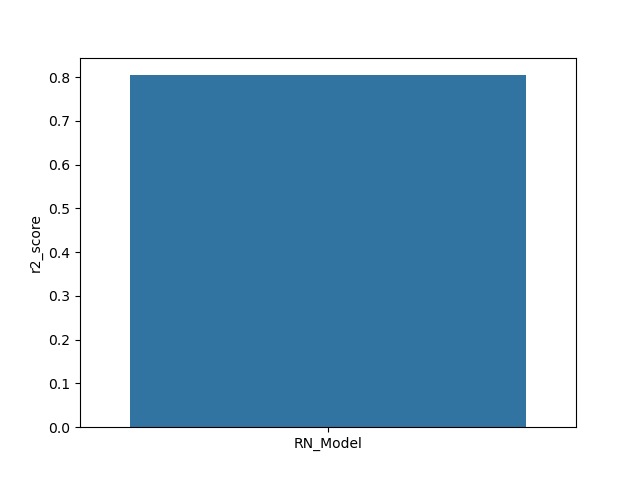
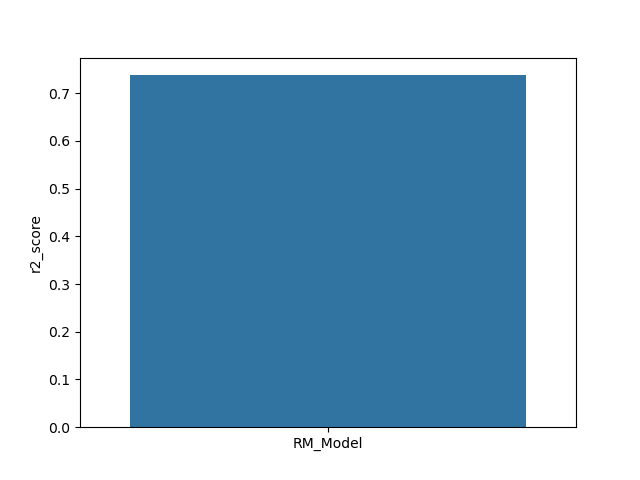
RN is with us

diff --git a/main.py b/main.py
@@ -11,23 +11,9 @@ if __name__ == '__main__':
     ml_comparer_obj = MLComparer()
     ml_comparer_obj.initialize()
 
-<<<<<<< HEAD
-    trained_rn_model = ml_comparer_obj.compare_training("RN_Model", RNModel(), 10)
-    ml_comparer_obj.compare_benchmark("RN_Model", trained_rn_model)
-
-    # trained_adaboost_model = ml_comparer_obj.compare_training("ADABoost_Model", ADABoostModel(), 10)
-    # ml_comparer_obj.compare_benchmark("ADABoost_Model", trained_adaboost_model)
-
-    # trained_svm_model = ml_comparer_obj.compare_training("SVM_Model", SVMModel(), 10)
-    # ml_comparer_obj.compare_benchmark("SVM_Model", trained_svm_model)
-
-    # trained_random_forest_model = ml_comparer_obj.compare_training("RandomForest_Model", RandomForestModel(), 10)
-    # ml_comparer_obj.compare_benchmark("RandomForest_Model", trained_random_forest_model)
+    trained_rn_model = ml_comparer_obj.compare_training("RM_Model", RNModel(), 70)
+    ml_comparer_obj.compare_benchmark("RM_Model", trained_rn_model)
     
-=======
-    # trained_rn_model = ml_comparer_obj.compare_training("RM_Model", RNModel(), 10)
-    # ml_comparer_obj.compare_benchmark("RM_Model", trained_rn_model)
-    #
     # trained_adaboost_model = ml_comparer_obj.compare_training("ADABoost_Model", ADABoostModel(), 10)
     # ml_comparer_obj.compare_benchmark("ADABoost_Model", trained_adaboost_model)
     #
@@ -39,17 +25,16 @@ if __name__ == '__main__':
 
     # Compare training of KNN models with different k values
 
-    trained_knn_uniform_model = ml_comparer_obj.compare_training("KNN_Uniform_Model", KNNModel(weights="uniform"),  15,
-                                                                 KNNManager.train_model_get_specs)
+    # trained_knn_uniform_model = ml_comparer_obj.compare_training("KNN_Uniform_Model", KNNModel(weights="uniform"),  15,
+    #                                                              KNNManager.train_model_get_specs)
 
-    ml_comparer_obj.compare_benchmark("KNN_Uniform_Model", trained_knn_uniform_model)
+    # ml_comparer_obj.compare_benchmark("KNN_Uniform_Model", trained_knn_uniform_model)
 
-    trained_knn_distance_model = ml_comparer_obj.compare_training("KNN_Distance_Model", KNNModel(weights="distance"),  15,
-                                                                  KNNManager.train_model_get_specs)
+    # trained_knn_distance_model = ml_comparer_obj.compare_training("KNN_Distance_Model", KNNModel(weights="distance"),  15,
+    #                                                               KNNManager.train_model_get_specs)
 
-    ml_comparer_obj.compare_benchmark("KNN_Distance_Model", trained_knn_distance_model)
+    # ml_comparer_obj.compare_benchmark("KNN_Distance_Model", trained_knn_distance_model)
 
->>>>>>> d68aaf741adf1a251ef2c46e7c48176dc78eee39
     ml_comparer_obj.dump_comparison()
 
 

diff --git a/Utils/data_container.py b/Utils/data_container.py
@@ -20,8 +20,8 @@ class DataContainer:
         validation_set_upper_edge = int(0.9 * feature_set.shape[0])
 
         self.training_set = shuffled_feature_set[:training_set_upper_edge, :], shuffled_target_set[:training_set_upper_edge]
-        self.test_set= shuffled_feature_set[training_set_upper_edge:validation_set_upper_edge, :], shuffled_target_set[training_set_upper_edge:validation_set_upper_edge]
-        self.validation_set  = shuffled_feature_set[validation_set_upper_edge:, :], shuffled_target_set[validation_set_upper_edge:]
+        self.validation_set = shuffled_feature_set[training_set_upper_edge:validation_set_upper_edge, :], shuffled_target_set[training_set_upper_edge:validation_set_upper_edge]
+        self.test_set = shuffled_feature_set[validation_set_upper_edge:, :], shuffled_target_set[validation_set_upper_edge:]
 
     def get_training_set(self) -> tuple:
         return self.training_set
